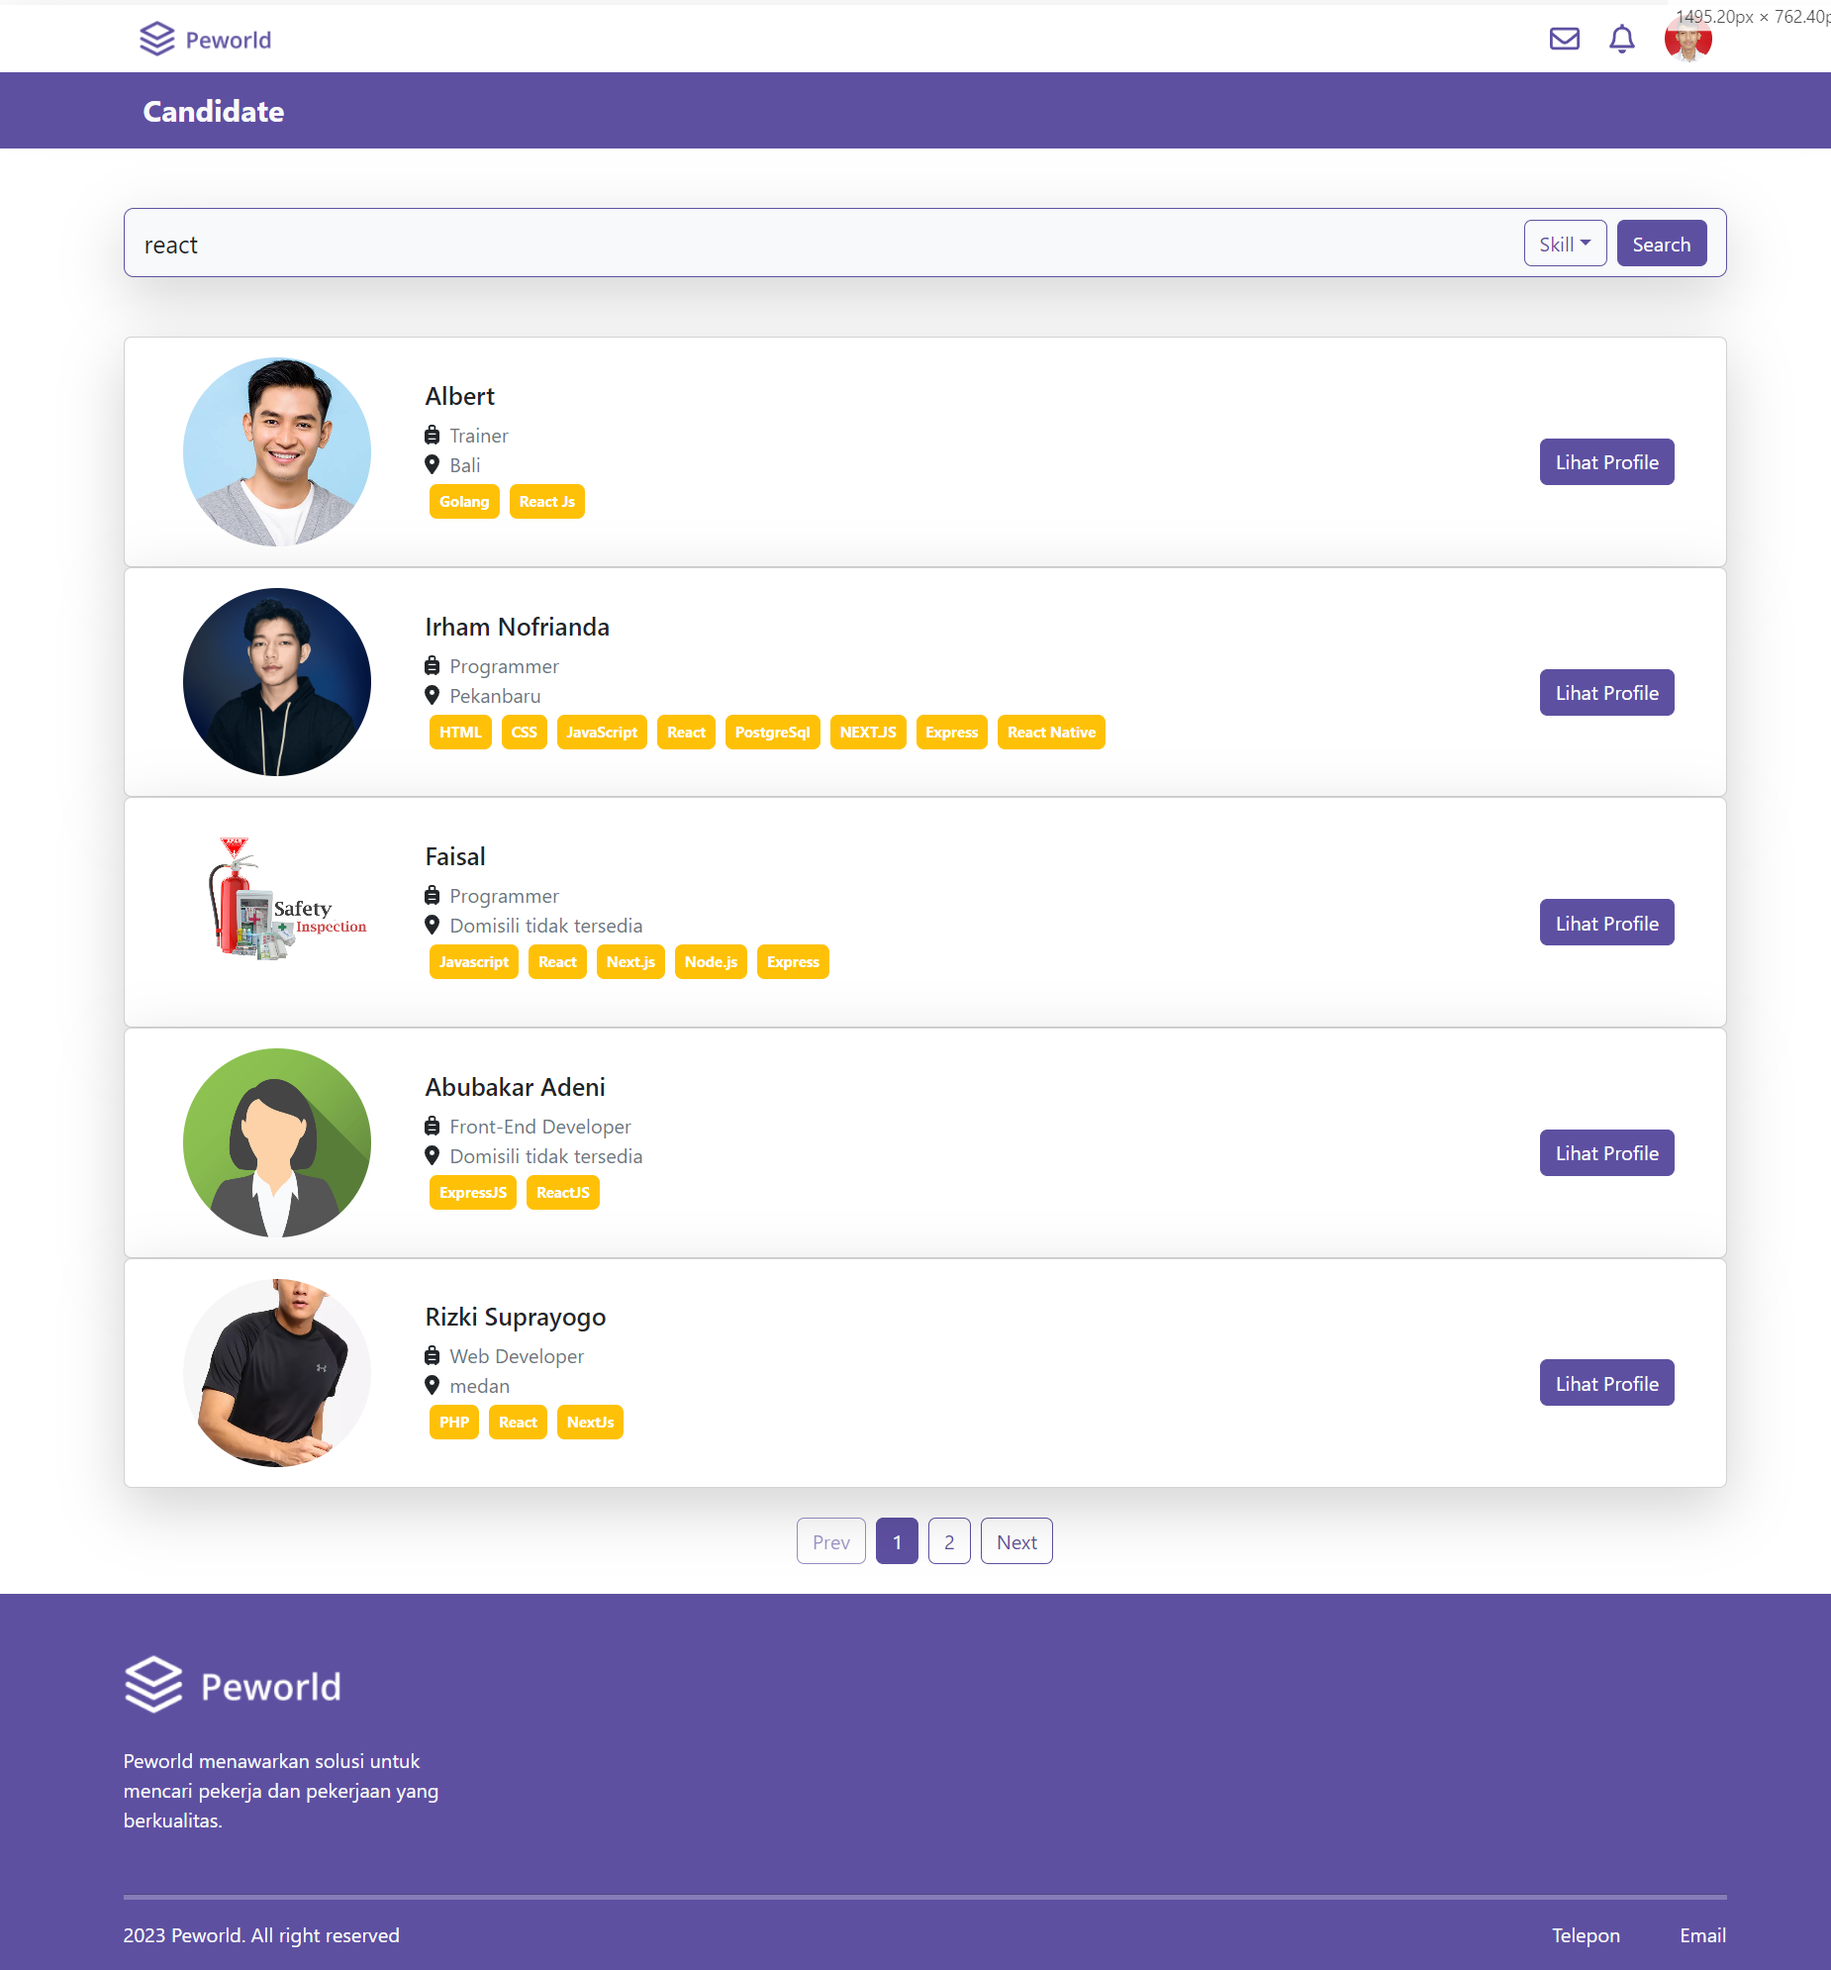
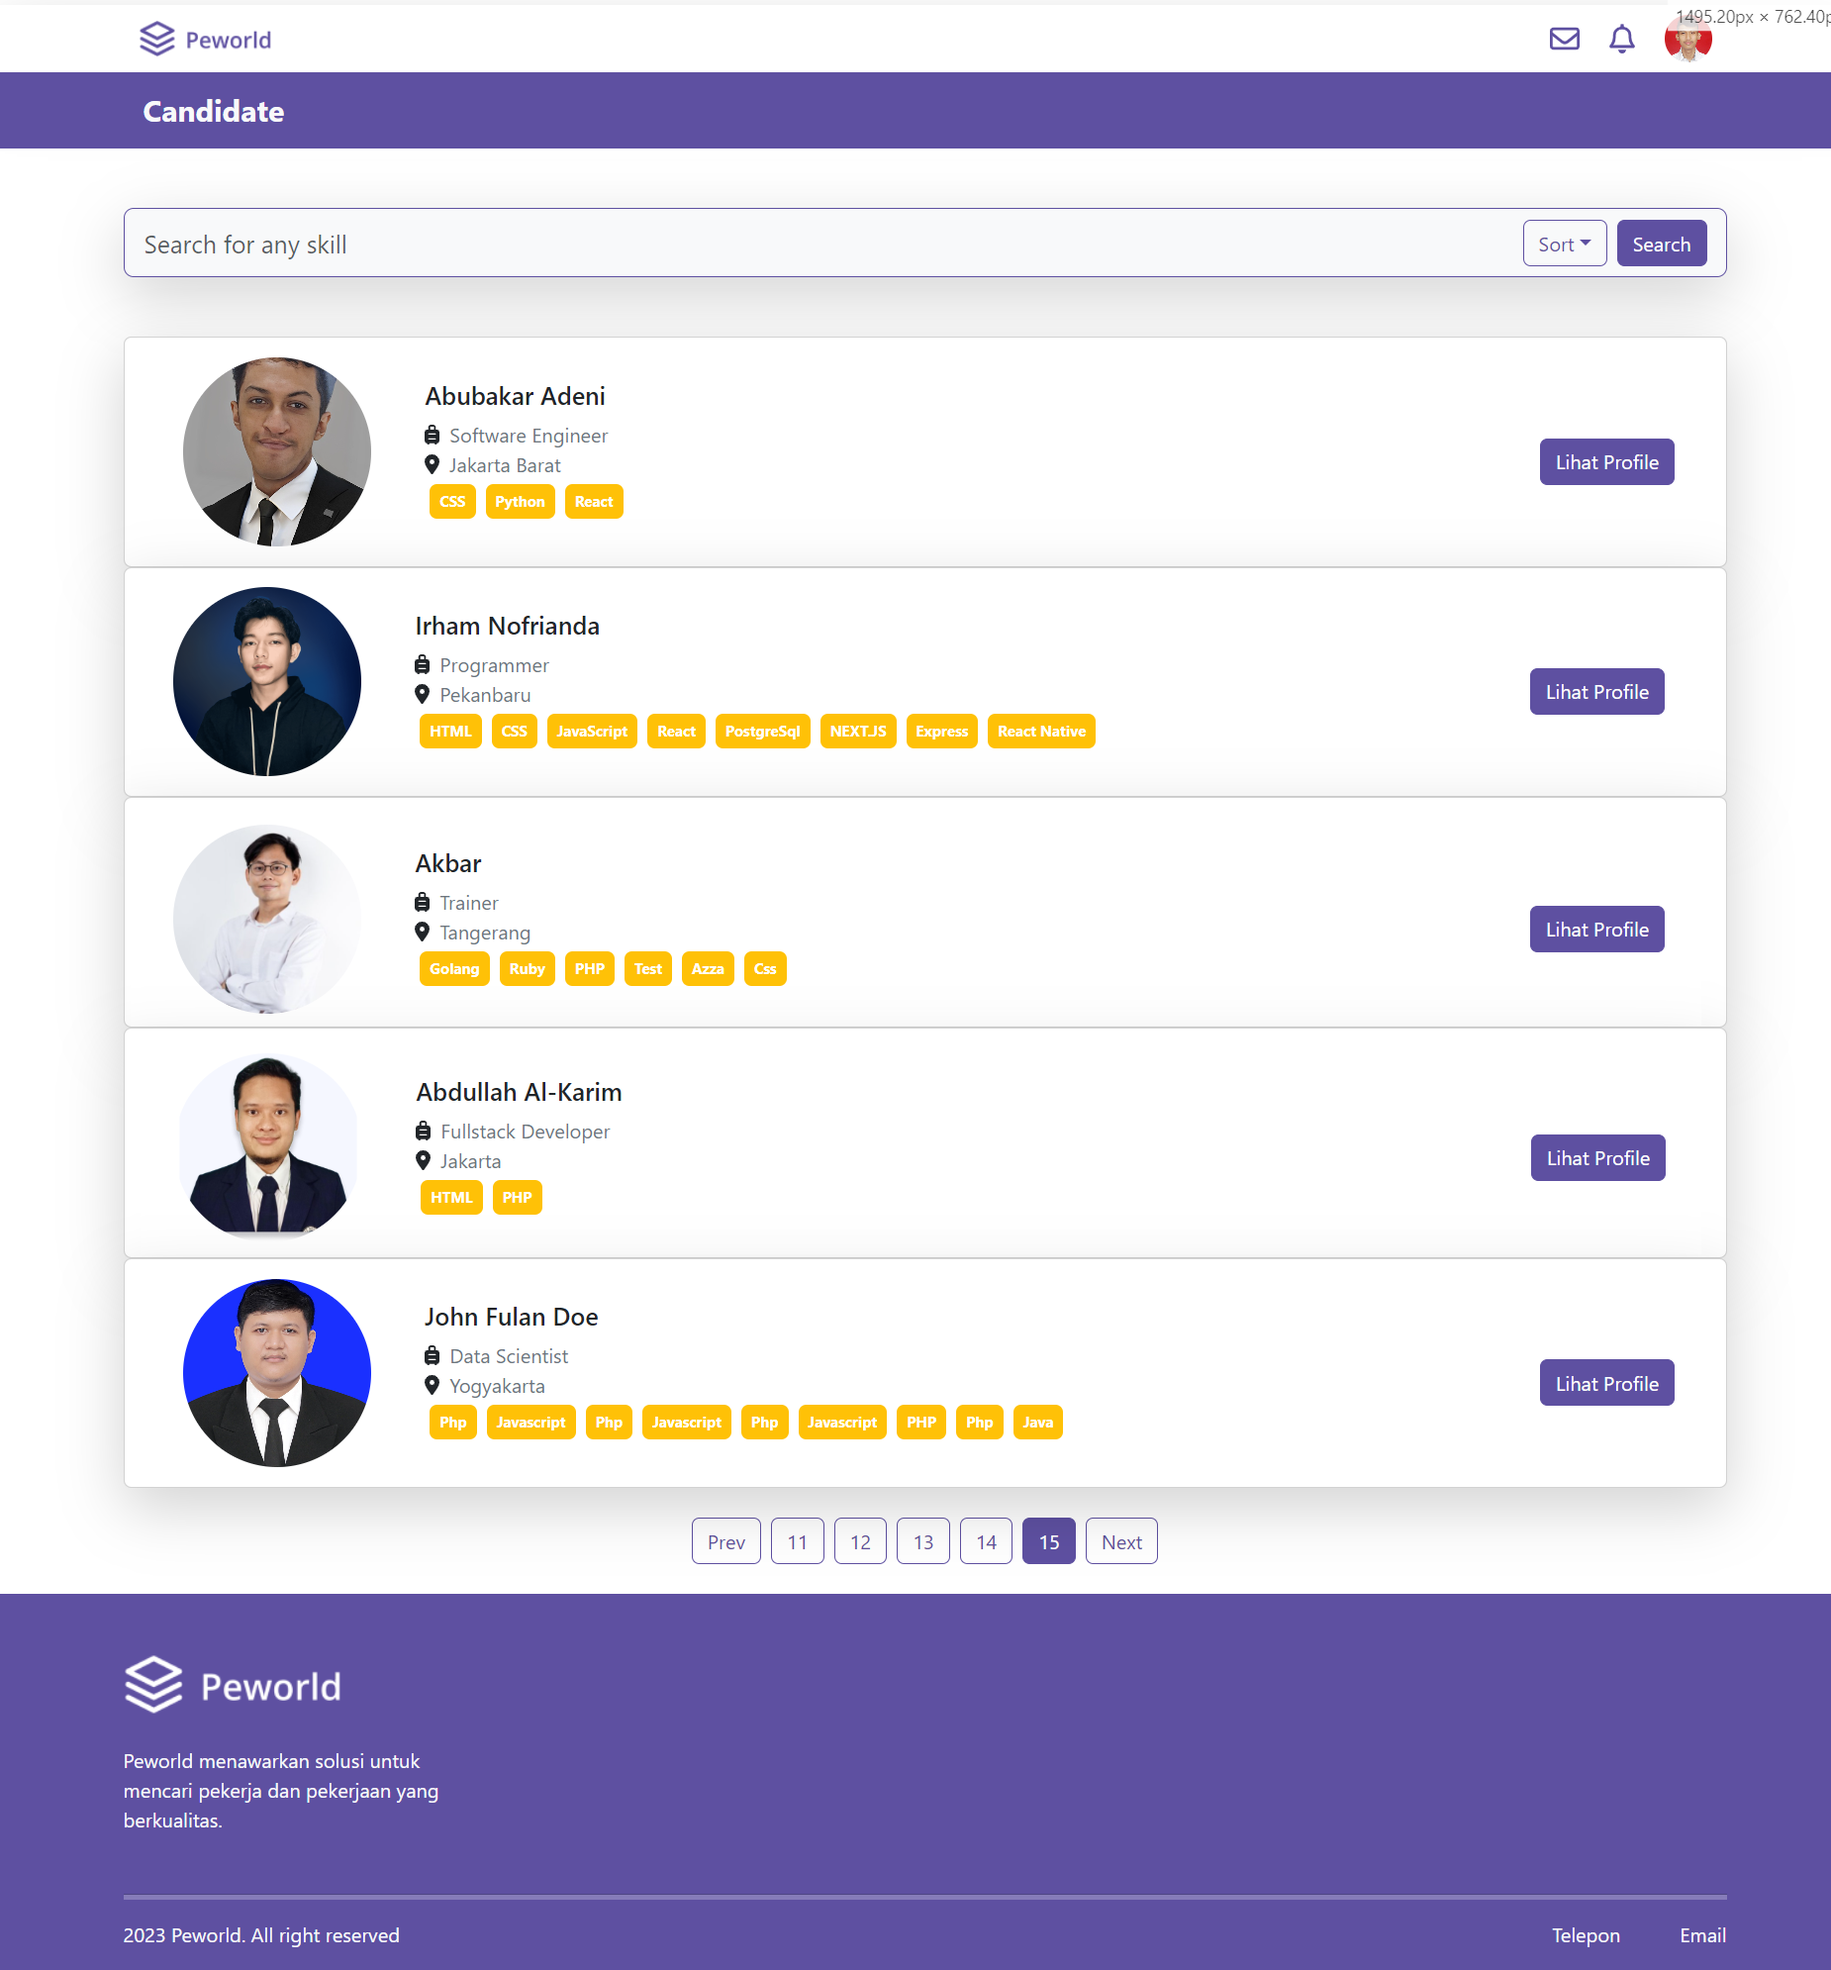
[fix] sorting and readme

diff --git a/pages/candidate.js b/pages/candidate.js
@@ -17,8 +17,7 @@ function Job_list(props) {
   const router = useRouter();
   const [showDropdown, setShowDropdown] = useState(false);
   const [sortOption, setSortOption] = useState("Sort");
-  const sortOptions = ["Nama", "Skill", "Lokasi"];
-  const dispatch = useDispatch();
+  const sortOptions = ["Nama", "Skill"];
   // this will be used when using api per pages
   // const [pageStart, setPageStart] = useState(0);
   // const [currentPage, setCurrentPage] = useState(1);
@@ -27,16 +26,17 @@ function Job_list(props) {
 
   //this will be used to store the api data in redux
   const user = useSelector((state) => state?.user?.data);
-
   const auth = useSelector((state) => state?.auth);
+
   useEffect(() => {
     if (auth.token === null) {
       router.replace("/login");
     }
-  }, [auth.status]);
+  }, [auth.token, router]);
 
   // server rendering code here
   const [data, setData] = useState(props?.request?.data);
+  console.log(data);
   const [currentPage, setCurrentPage] = useState(0);
   const [firstPageInSet, setFirstPageInSet] = useState(0);
   const [searchText, setSearchText] = useState("");
@@ -44,6 +44,9 @@ function Job_list(props) {
   const handleSearchInputChange = (event) => {
     setSearchText(event.target.value);
   };
+  console.log(data);
+  console.log(filteredData);
+  console.log(searchText);
 
   const handleSortOptionClick = (option) => {
     setSortOption(option);
@@ -65,8 +68,19 @@ function Job_list(props) {
         )
       );
       setFilteredData(sortedData);
+    } else if (option === "Sort") {
+      sortedData = data.filter(
+        (item) =>
+          item.fullname.toLowerCase().includes(searchText.toLowerCase()) ||
+          (item.skills.some((skill) =>
+            skill.toLowerCase().includes(searchText.toLowerCase())
+          ) &&
+            item.id !== user?.id)
+      );
+      setFilteredData(sortedData);
     }
   };
+
   const itemsPerPage = 5;
 
   const profiles = filteredData
@@ -136,6 +150,11 @@ function Job_list(props) {
   // for (let i = 1; i <= totalPages; i++) {
   //   pageNumbers.push(i);
   // }
+  const handleKeyDown = (event) => {
+    if (event.key === "Enter") {
+      handleSortOptionClick(sortOption);
+    }
+  };
 
   return (
     <>
@@ -153,9 +172,10 @@ function Job_list(props) {
                 type="text"
                 className="form-control form-control-lg border-primary shadow-lg bg-body-tertiary "
                 aria-label="Text input with dropdown button "
-                placeholder="search for any skill "
+                placeholder="Search for any skill "
                 value={searchText}
                 onChange={handleSearchInputChange}
+                onKeyDown={handleKeyDown}
               />
               <div className="action d-inline-flex justify-content-center align-items-center ms-2 me-2">
                 <div
@@ -207,65 +227,74 @@ function Job_list(props) {
                 </button>
               </div>
             </div>
-
-            {profiles.map((profile, index) => (
-              <div className="card shadow-lg" key={index}>
-                <div className="row align-items-center mt-3 mb-3 ms-3">
-                  <div className="col-12 col-md-2 text-center">
-                    <img
-                      src={profile?.photo || "/default_photo.jpg"}
-                      alt="profile"
-                      className="img-fluid rounded-circle object-fit-cover"
-                      style={{ width: `20vh`, height: `20vh` }}
-                    />
-                  </div>
-                  <div className="col-12 col-md-8 text-center text-md-start text-lg-start">
-                    <h5>
-                      {profile?.fullname
-                        ? profile?.fullname.charAt(0).toUpperCase() +
-                          profile?.fullname.slice(1)
-                        : "Nama tidak tersedia"}
-                    </h5>
-
-                    <div className="d-flex align-items-center justify-content-center justify-content-md-start">
-                      <FontAwesomeIcon icon={faSuitcaseRolling} />
-                      <p className="m-0 ms-2 text-secondary">
-                        {profile?.job_title && profile.job_title !== "-"
-                          ? profile.job_title
-                          : "Job title tidak tersedia"}
-                      </p>
+            {profiles.length === 0 ? (
+              <p>Pencarian tidak ditemukan</p>
+            ) : (
+              profiles.map((profile, index) => (
+                <div className="card shadow-lg" key={index}>
+                  <div className="row align-items-center mt-3 mb-3 ms-3">
+                    <div className="col-12 col-md-2 text-center">
+                      <img
+                        src={profile?.photo || "/default_photo.jpg"}
+                        alt="profile"
+                        className="img-fluid rounded-circle object-fit-cover"
+                        style={{ width: `20vh`, height: `20vh` }}
+                      />
                     </div>
+                    <div className="col-12 col-md-8 text-center text-md-start text-lg-start text-capitalize">
+                      <h5>
+                        {profile?.fullname
+                          ? profile?.fullname.charAt(0).toUpperCase() +
+                            profile?.fullname.slice(1)
+                          : "Nama tidak tersedia"}
+                      </h5>
 
-                    <div className="d-flex align-items-center justify-content-center justify-content-md-start">
-                      <FontAwesomeIcon icon={faLocationDot} />
-                      <p className="m-0 ms-2 text-secondary">
-                        {profile?.domicile && profile.domicile !== "-"
-                          ? profile.domicile
-                          : "Domisili tidak tersedia"}
-                      </p>
-                    </div>
-                    <div>
-                      {Array.isArray(profile.skills) ? (
-                        profile.skills.map((skill, key) => (
-                          <span key={key} className="badge bg-warning m-1 p-2">
-                            {skill}
+                      <div className="d-flex align-items-center justify-content-center justify-content-md-start">
+                        <FontAwesomeIcon icon={faSuitcaseRolling} />
+                        <p className="m-0 ms-2 text-secondary text-capitalize">
+                          {profile?.job_title && profile.job_title !== "-"
+                            ? profile.job_title
+                            : "Job title tidak tersedia"}
+                        </p>
+                      </div>
+
+                      <div className="d-flex align-items-center justify-content-center justify-content-md-start">
+                        <FontAwesomeIcon icon={faLocationDot} />
+                        <p className="m-0 ms-2 text-secondary text-capitalize">
+                          {profile?.domicile && profile.domicile !== "-"
+                            ? profile.domicile
+                            : "Domisili tidak tersedia"}
+                        </p>
+                      </div>
+                      <div>
+                        {Array.isArray(profile.skills) ? (
+                          profile.skills.map((skill, key) => (
+                            <span
+                              key={key}
+                              className="badge bg-warning m-1 p-2"
+                            >
+                              {skill}
+                            </span>
+                          ))
+                        ) : (
+                          <span className="badge bg-warning m-1 p-2">
+                            {profile.skills}
                           </span>
-                        ))
-                      ) : (
-                        <span className="badge bg-warning m-1 p-2">
-                          {profile.skills}
-                        </span>
-                      )}
+                        )}
+                      </div>
                     </div>
-                  </div>
-                  <div className="col-12 col-md-2 text-center text-md-right mt-sm-3 mt-xs-3">
-                    <Link href={`/user/${profile.id}`}>
-                      <button className="btn btn-primary">Lihat Profile</button>
-                    </Link>
+                    <div className="col-12 col-md-2 text-center text-md-right mt-sm-3 mt-xs-3">
+                      <Link href={`/user/${profile.id}`}>
+                        <button className="btn btn-primary">
+                          Lihat Profile
+                        </button>
+                      </Link>
+                    </div>
                   </div>
                 </div>
-              </div>
-            ))}
+              ))
+            )}
+
             <div className="d-flex justify-content-center mt-4 mb-4">
               <button
                 className="btn btn-outline-primary "

diff --git a/pages/register.js b/pages/register.js
@@ -15,6 +15,7 @@ function Register() {
     phone: "",
   });
   const [confirmPassword, setConfirmPassword] = useState("");
+  const [isLoading, setIsLoading] = useState(false);
 
   const validatePasswords = () => {
     return formData.password === confirmPassword;
@@ -26,7 +27,7 @@ function Register() {
 
   const handleSubmit = async (e) => {
     e.preventDefault();
-
+    setIsLoading(true);
     let response = null;
 
     if (validatePasswords()) {
@@ -39,6 +40,8 @@ function Register() {
         router.push("/login");
       } catch (error) {
         console.error(error);
+      } finally {
+        setIsLoading(false);
       }
     } else {
       setErrMsg(response?.data?.message ?? "Password tidak sama");
@@ -190,7 +193,7 @@ function Register() {
                 </div>
                 <div className="m-5 mt-3 mb-0 d-grid">
                   <button type="submit" className="btn btn-warning btn-lg">
-                    Daftar
+                    {isLoading ? "Loading..." : "Daftar"}
                   </button>
                 </div>
               </form>

diff --git a/README.md b/README.md
@@ -49,15 +49,30 @@ This is a [Next.js](https://nextjs.org/) project bootstrapped with [`create-next
 
 <table>
 <tr>
+  <td>Login</td>
+  <td>Register</td>
+<tr>
 <td><img width="350px" src="./documentation/login.jpg" border="0" alt="login" /></td>
     <td> <img width="350px" src="./documentation/register.jpg" border="0"  alt="Register" /></td>
 </tr>
+<tr>
+  <td>home</td>
+  <td>candidate</td>
+<tr>
 <td><img width="350px" src="./documentation/home.jpg" border="0" alt="home" /></td>
     <td> <img width="350px" src="./documentation/candidate.jpg" border="0"  alt="candidate" /></td>
 </tr>
+<tr>
+  <td>profile</td>
+  <td>otheruser</td>
+<tr>
 <td><img width="350px" src="./documentation/profile.jpg" border="0" alt="profile" /></td>
     <td> <img width="350px" src="./documentation/otheruser.jpg" border="0"  alt="otheruser" /></td>
 </tr>
+<tr>
+  <td>editprofile</td>
+  <td>findjob</td>
+<tr>
 <td><img width="350px" src="./documentation/editProfile.jpg" border="0" alt="editprofile" /></td>
     <td> <img width="350px" src="./documentation/findJob.jpg" border="0"  alt="findjob" /></td>
 </tr>
